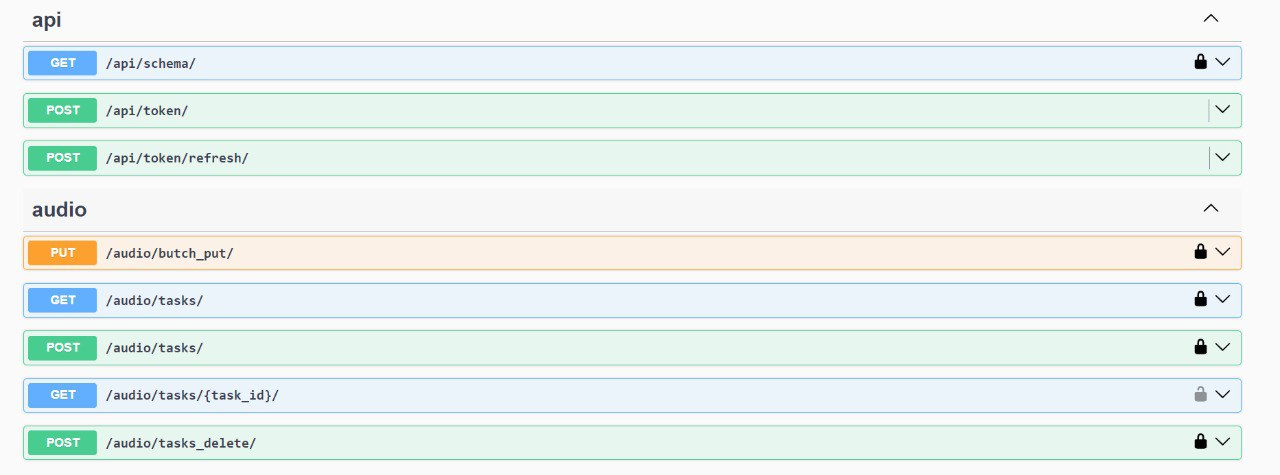
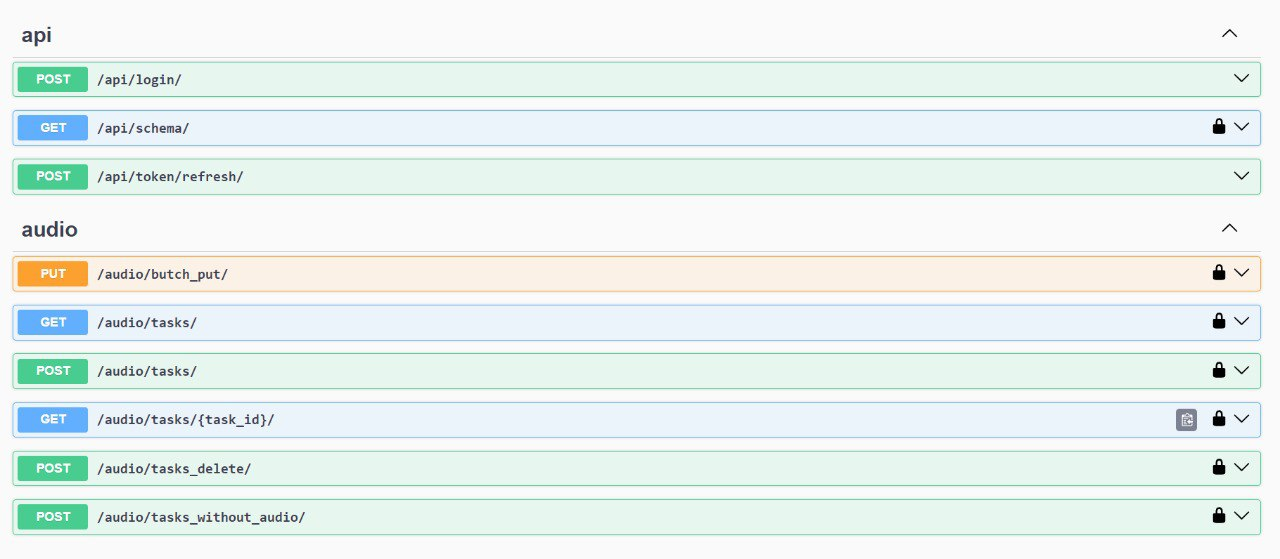
add post method

Changed region(s): [[0.0, 0.0295, 1.0, 0.9726]]

diff --git a/backend/audio/views.py b/backend/audio/views.py
@@ -1,10 +1,10 @@
 from django.shortcuts import get_object_or_404
 from rest_framework import status
-from rest_framework.permissions import  AllowAny
+from rest_framework.permissions import AllowAny, IsAuthenticated
 from rest_framework.views import APIView
 from rest_framework.response import Response
 from .models import Task
-from .serializer import TaskSerializer, TaskSerializerGet, TaskIDSerializer, BatchUpdateTaskSerializer
+from .serializer import TaskSerializer, TaskSerializerGet, TaskIDSerializer, BatchUpdateTaskSerializer, TaskSerializerWithoutAudio
 from users.models import UserModel
 from .utils import transcribes_audio_into_text
 
@@ -78,6 +78,19 @@ class TaskBatchPutView(APIView):
                 'not_found_ids': list(not_found_ids)
             }, status=status.HTTP_200_OK)
 
+        return Response(serializer.errors, status=status.HTTP_400_BAD_REQUEST)
+
+class TaskPostWithoutAudio(APIView):
+    serializer_class = TaskSerializerWithoutAudio
+    permission_classes = [IsAuthenticated]
+
+    def post(self, request):
+        data = request.data.copy()
+
+        serializer = TaskSerializerWithoutAudio(data=data)
+        if serializer.is_valid():
+            task = serializer.save()
+            return Response(TaskSerializer(task).data, status=status.HTTP_201_CREATED)
         return Response(serializer.errors, status=status.HTTP_400_BAD_REQUEST)
 
 

diff --git a/backend/backend/settings.py b/backend/backend/settings.py
@@ -13,7 +13,7 @@ import os
 from pathlib import Path
 from datetime import timedelta
 from dotenv import load_dotenv
-import dj_database_url
+# import dj_database_url
 
 load_dotenv()
 
@@ -101,20 +101,20 @@ WSGI_APPLICATION = 'backend.wsgi.application'
 # Database
 # https://docs.djangoproject.com/en/5.1/ref/settings/#databases
 
-# DATABASES = {
-#     'default': {
-#         'ENGINE': 'django.db.backends.postgresql',
-#         'NAME': os.getenv('DATABASE_NAME'),
-#         'USER': os.getenv('DATABASE_USER'),
-#         'PASSWORD': os.getenv('DATABASE_PASSWORD'),
-#         'HOST': os.getenv('DATABASE_HOST'),
-#         'PORT': os.getenv('DATABASE_PORT'),
-#     }
-# }
-
 DATABASES = {
-    'default': dj_database_url.config(default=os.getenv('DATABASE_URL'))
+    'default': {
+        'ENGINE': 'django.db.backends.postgresql',
+        'NAME': os.getenv('DATABASE_NAME'),
+        'USER': os.getenv('DATABASE_USER'),
+        'PASSWORD': os.getenv('DATABASE_PASSWORD'),
+        'HOST': os.getenv('DATABASE_HOST'),
+        'PORT': os.getenv('DATABASE_PORT'),
+    }
 }
+#
+# DATABASES = {
+#     'default': dj_database_url.config(default=os.getenv('DATABASE_URL'))
+# }
 
 # Password validation
 # https://docs.djangoproject.com/en/5.1/ref/settings/#auth-password-validators

diff --git a/backend/audio/models.py b/backend/audio/models.py
@@ -4,7 +4,7 @@ from users.models import UserModel
 class Task(models.Model):
     title = models.CharField(max_length=100)
     audio_file = models.FileField(upload_to='audio_files/', null=True, blank=True)
-    user = models.ForeignKey(to=UserModel, on_delete=models.CASCADE)  # Убедимся, что ссылка на пользователя корректна
+    user = models.ForeignKey(to=UserModel, blank=True, null=True, on_delete=models.CASCADE)  # Убедимся, что ссылка на пользователя корректна
     prompts = models.JSONField(default=list)  # Поле для хранения промптов в формате JSON
 
     def __str__(self):

diff --git a/backend/audio/urls.py b/backend/audio/urls.py
@@ -1,11 +1,12 @@
 from django.urls import path
-from .views import TaskListCreateView, TaskDetailView, TaskDelete, TaskBatchPutView
+from .views import TaskListCreateView, TaskDetailView, TaskDelete, TaskBatchPutView, TaskPostWithoutAudio
 
 app_name = 'audio'
 
 urlpatterns = [
     path('tasks/', TaskListCreateView.as_view(), name='task_list_create'),
     path('tasks_delete/', TaskDelete.as_view(), name='task_list_delete'),
+    path('tasks_without_audio/', TaskPostWithoutAudio.as_view(), name='tasks_without_audio'),
     path('butch_put/', TaskBatchPutView.as_view(), name='task_list_delete'),
     path('tasks/<int:task_id>/', TaskDetailView.as_view(), name='task_detail'),
 ]

diff --git a/backend/audio/migrations/0003_alter_task_user.py b/backend/audio/migrations/0003_alter_task_user.py
@@ -1,0 +1,21 @@
+# Generated by Django 5.1.2 on 2024-10-16 21:57
+
+import django.db.models.deletion
+from django.conf import settings
+from django.db import migrations, models
+
+
+class Migration(migrations.Migration):
+
+    dependencies = [
+        ('audio', '0002_alter_task_audio_file_alter_task_user'),
+        migrations.swappable_dependency(settings.AUTH_USER_MODEL),
+    ]
+
+    operations = [
+        migrations.AlterField(
+            model_name='task',
+            name='user',
+            field=models.ForeignKey(blank=True, null=True, on_delete=django.db.models.deletion.CASCADE, to=settings.AUTH_USER_MODEL),
+        ),
+    ]

diff --git a/backend/audio/serializer.py b/backend/audio/serializer.py
@@ -6,6 +6,11 @@ class TaskSerializer(serializers.ModelSerializer):
         model = Task
         fields = ['id', 'title', 'audio_file', 'user']
 
+class TaskSerializerWithoutAudio(serializers.ModelSerializer):
+    class Meta:
+        model = Task
+        fields = ['id', 'title', 'prompts']
+
 class TaskSerializerGet(serializers.ModelSerializer):
     class Meta:
         model = Task
